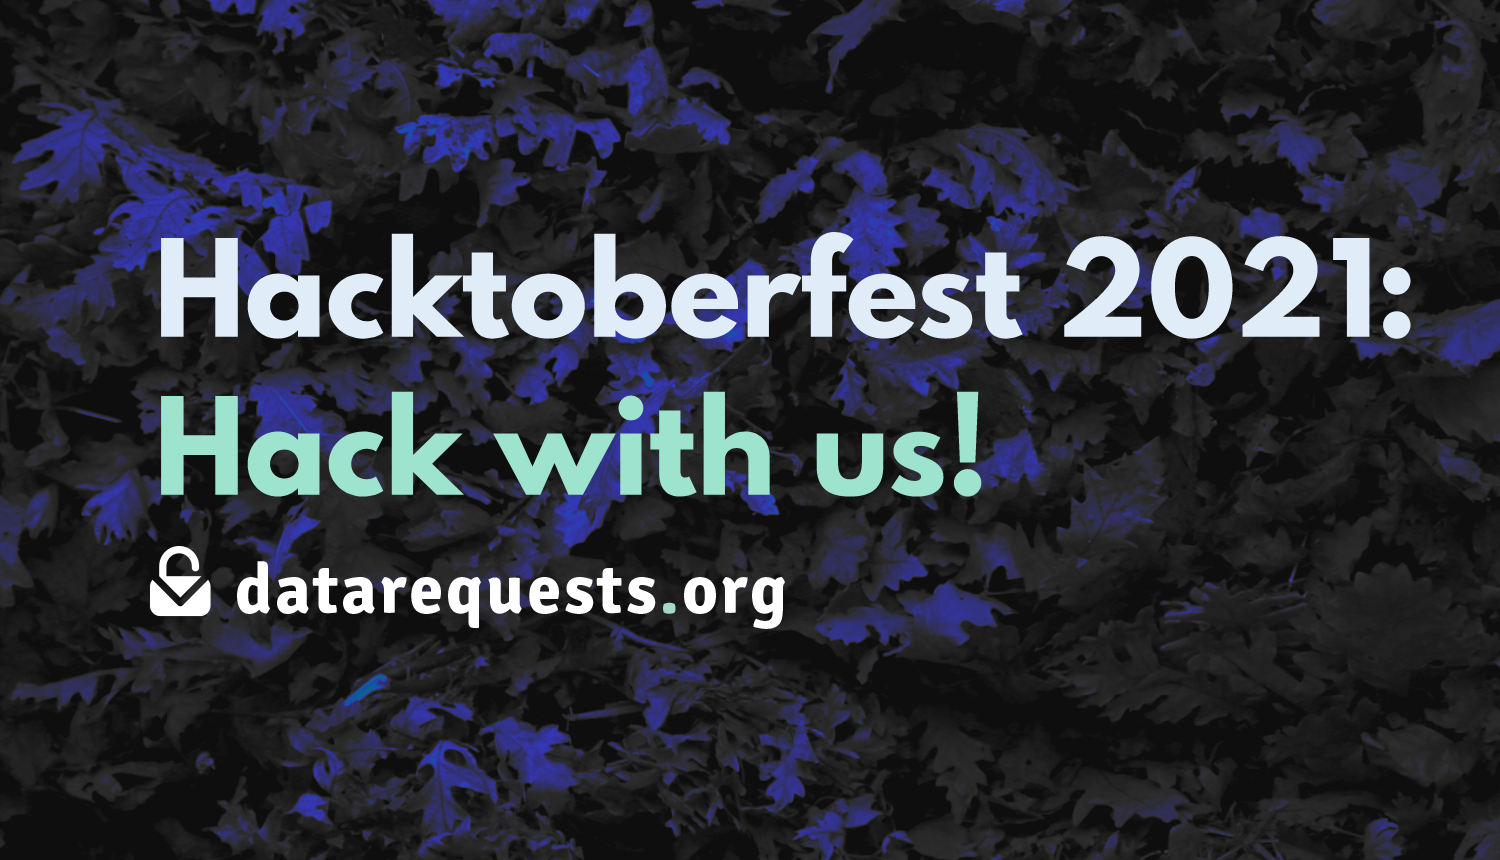
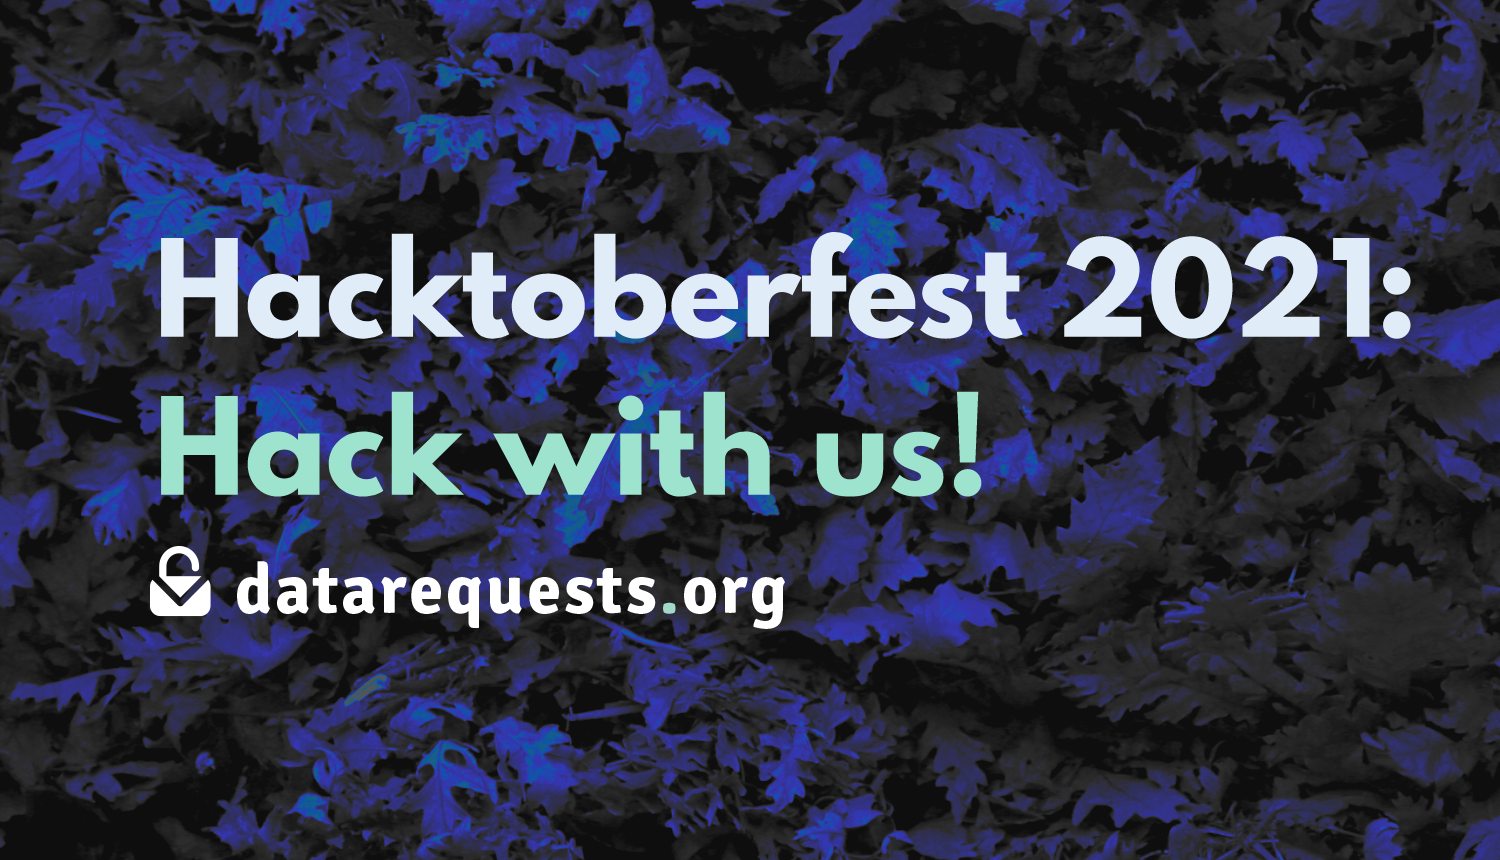
changes from review

diff --git a/content/de/blog/hacktoberfest-2021/index.md b/content/de/blog/hacktoberfest-2021/index.md
@@ -12,7 +12,7 @@
 
 ~~O'zapft is!~~ Der Oktober und damit auch das Hacktoberfest stehen wieder vor der Tür. Auch dieses Jahr wollen wir als Datenanfragen.de e.&thinsp;V. wieder am Hacktoberfest teilnehmen und freuen uns auf Eure Einreichungen für unser Projekt! Wie auch schon in den letzten Jahres gibt es auch wieder etwas zu gewinnen.
 
-{{< featuredImg alt="Vor einem Hintergrund aus Ahornblättern steht: „Hacktoberfest 2021: Macht mit!“" >}}
+{{< featuredImg alt="Vor einem Hintergrund aus Blättern steht: „Hacktoberfest 2021: Macht mit!“" >}}
 
 Wie auch das [ursprüngliche Hacktoberfest](https://hacktoberfest.digitalocean.com/) von DigitalOcean, wollen wir mit unserer Aktion Menschen die Mithilfe an Open-Source-Projekten näher bringen und freuen uns über jeden Beitrag für Datenanfragen.de oder eine unserer anderssprachigen Seiten. Konkret heißt das für Dich: Wenn Du an unserer Aktion teilnimmst und etwas zu Datenanfragen.de beiträgst, gewinnst Du eine praktische Webcam-Abdeckung und ein Sticker-Set (jeweils begrenzt auf die ersten 100 Teilnehmer_innen) und erhältst vielleicht auch ein T-Shirt von uns.
 
@@ -87,6 +87,9 @@ Gerade wenn Du neu bei Datenanfragen.de bist, weißt Du wahrscheinlich gar nicht
 
   Diese Daten fehlen uns noch für viele Unternehmen, deshalb nutzen wir für diese im Generator die Standardfelder (Name, E-Mail und Adresse). Diese passen aber leider nicht immer, manche Unternehmen fordern noch mehr, wie z.B. spezielle Nutzernamen oder sind mit weniger zufrieden.
   Du kannst uns helfen die Einträge entsprechend zu erweitern. In [diesem GitHub-Issue](https://github.com/datenanfragen/data/issues/720) erkären wir genau, wie Du durch Anfragen an die Unternehmen die entsprechenden Daten nachtragen kannst. Als netter Nebeneffekt kannst Du dadurch auch erfahren, was das Unternehmen so über dich weiß und praktische Erfahrung mit der DSGVO sammeln.
+
+* **Leichte oder einfache Sprache**
+  Kennst Du dich mit leichter oder einfacher Sprache aus und hast Lust für uns einen generellen Überblick oder Artikel zu schreiben? Wir möchten Datenschutz und die DSGVO-Rechte jeder Person leicht zugänglich machen und würden uns freuen, in Zukunft auch Inhalte in leichter oder einfacher Sprache anzubieten. Schreibe uns dafür gerne eine E-Mail an <hacktoberfest@datenanfragen.de>.
 
 * **Schreiben und Übersetzen von Artikeln**  
   In unserem {{< link slug="blog" text="Blog" >}} haben wir Artikel zu vielen Datenschutzthemen. Wir wollen gerne mehr Artikel veröffentlichen und wollen dort auch gerne weiterhin ein großes Spektrum abdecken, so haben wir bislang z.B. Erklärungen der DSGVO-Rechte, Anleitungen, Erfahrungsberichte und Recherchen. Reiche neue Beiträge bitte im [website-Repository](https://github.com/datenanfragen/website) ein.

diff --git a/content/en/blog/hacktoberfest-2021/index.md b/content/en/blog/hacktoberfest-2021/index.md
@@ -1,7 +1,7 @@
 {
     "title": "Hacktoberfest 2021: Hack with us!",
     "type": "blog",
-    "date": "2021-09-19T11:00:0+02:00",
+    "date": "2021-09-19T11:00:00+02:00",
     "description": "We are again participating in the Hacktoberfest! Contribute and get a webcam slider, sticker set and maybe a free t-shirt.",
     "featured_image": "hacktoberfest-2021",
     "tags": [ "hacktoberfest", "digitalocean", "github", "open source", "pull request" ],
@@ -10,7 +10,7 @@
 }
 ~~Party time!~~ October and therefore the Hacktoberfest are back! We are participating again and are looking forward to your contributions. Just like in the last years, we are happy to give away some goodies as well.
 
-{{< featuredImg alt="Written infront of maple leaves: \"Hacktoberfest 2021: Hack with us!\"" >}}
+{{< featuredImg alt="Written infront of leaves: \"Hacktoberfest 2021: Hack with us!\"" >}}
 
 Just like the [original Hacktoberfest](https://hacktoberfest.digitalocean.com/) from DigitalOcean, we want to get people excited about Open Source software and contributing to it. That means for you: Contribute to datarequests.org and its sister sites and we'll give you some goodies: The first 100 people get a useful webcam slider and a sticker pack. The 10 best contributions will receive a t-shirt as well! All that is completely free for you, we will even pay for postage.
 
